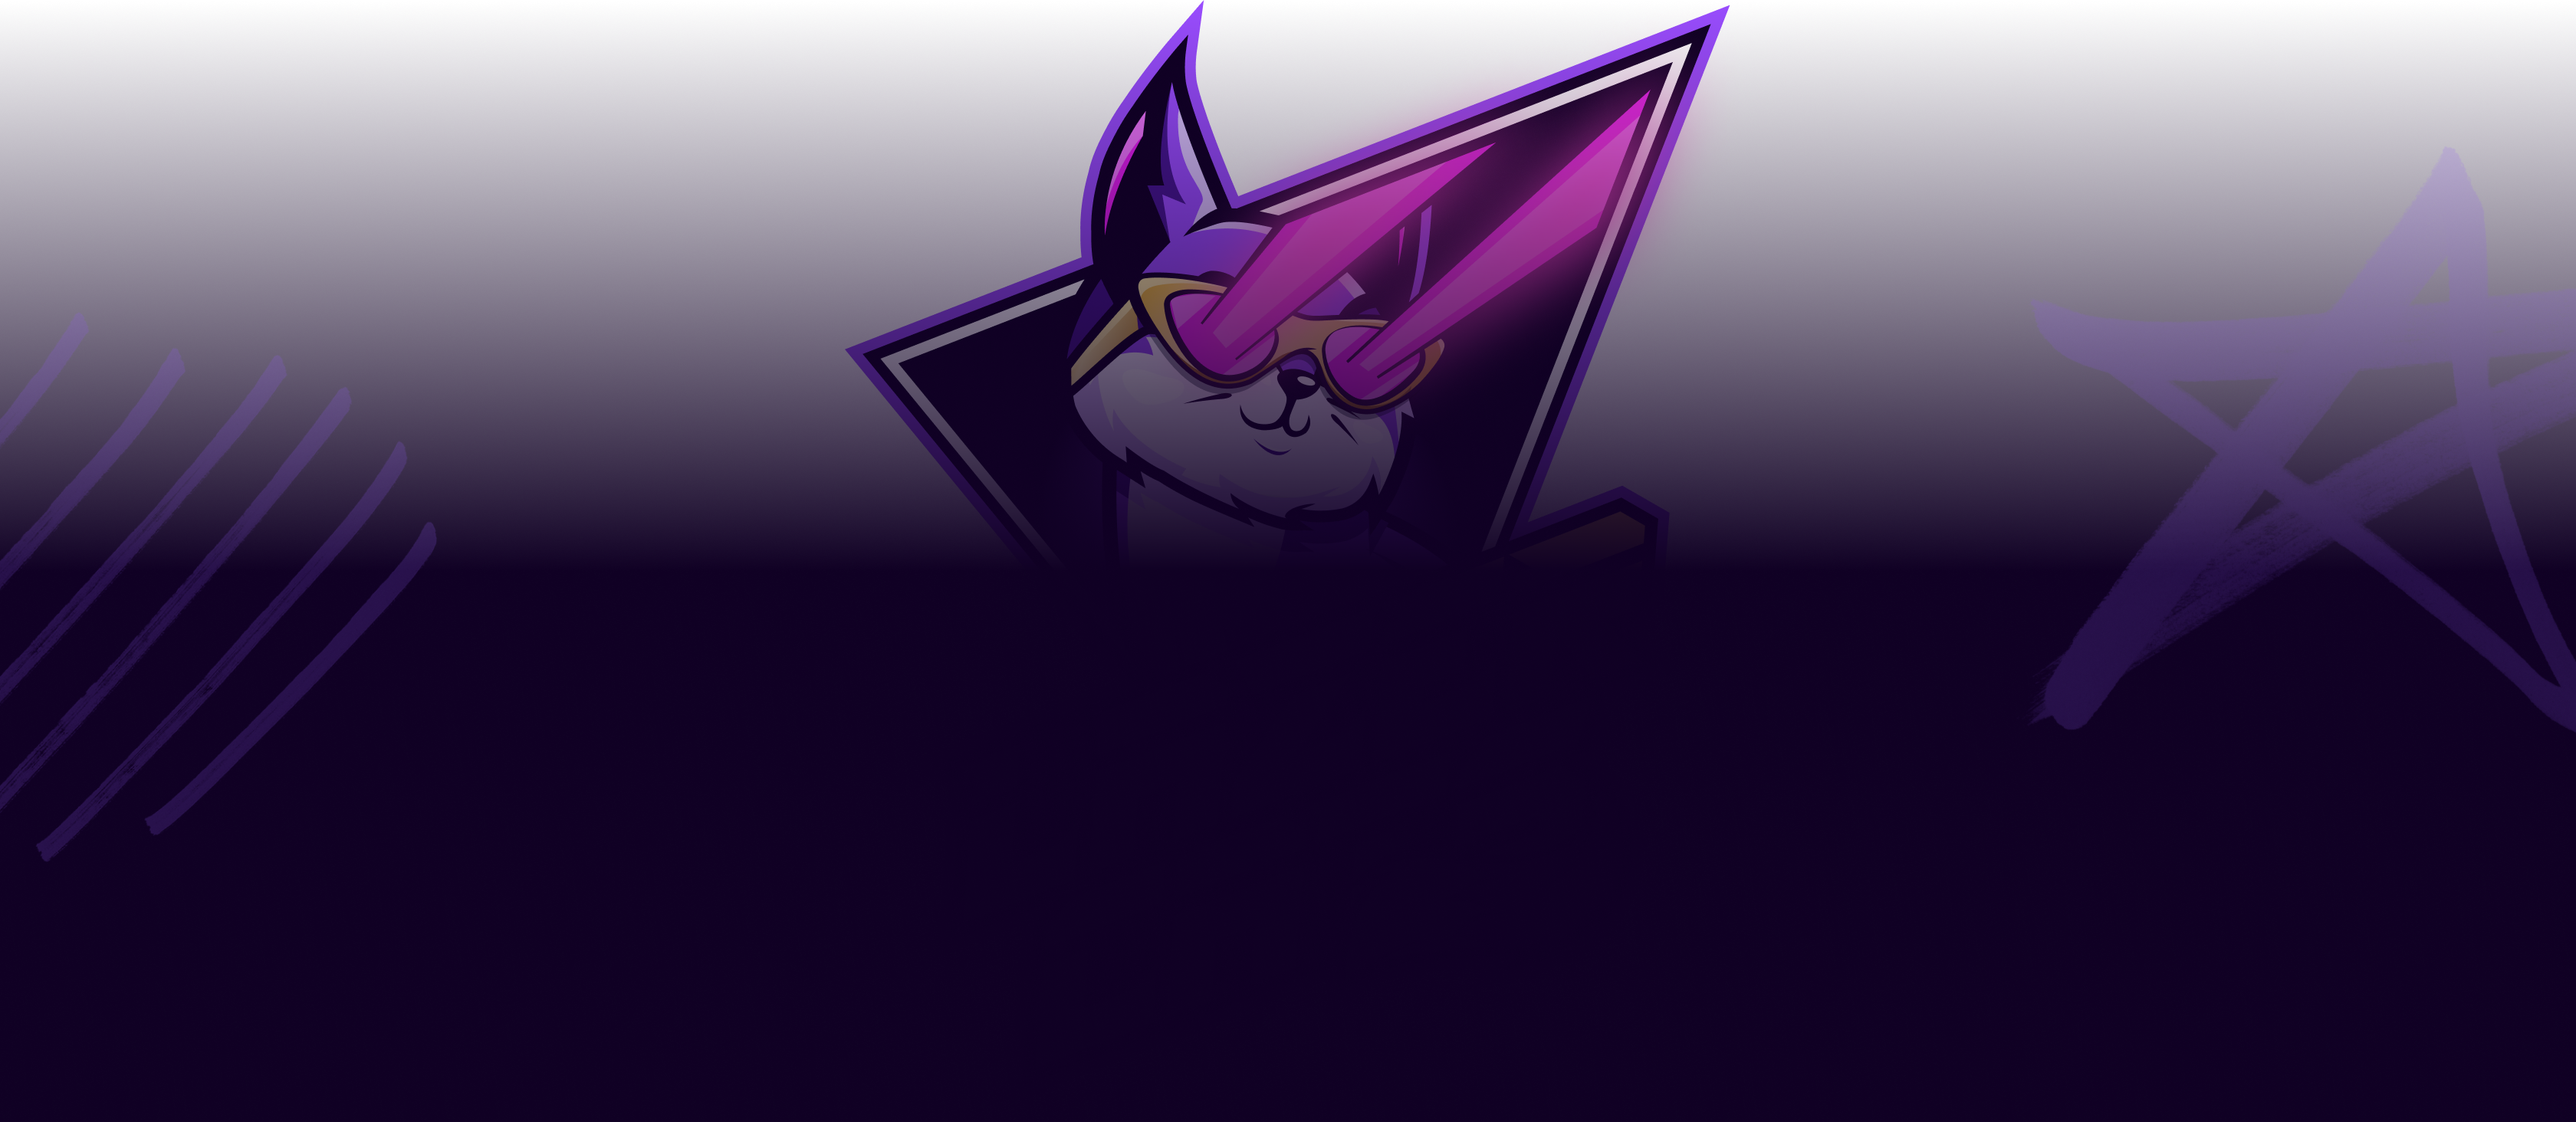
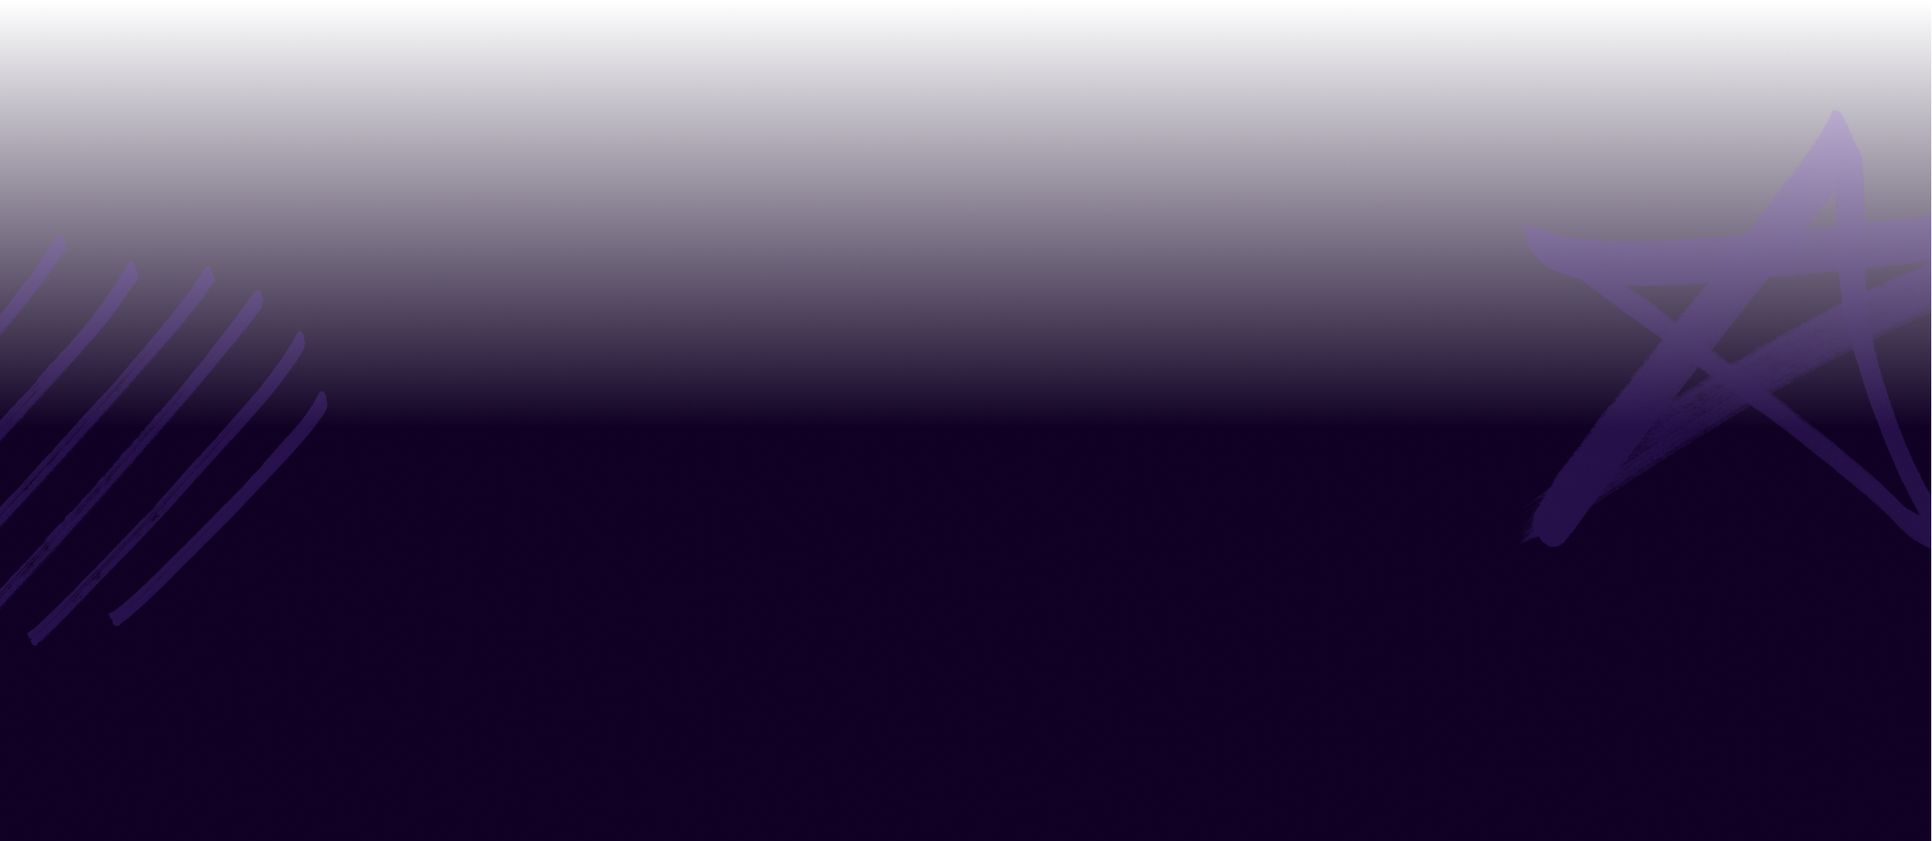
fixes test

Changed region(s): [[0.3094, 0.0, 0.6807, 0.4645]]

diff --git a/.slicemachine/assets/slices/WeAre/index.stories.js b/.slicemachine/assets/slices/WeAre/index.stories.js
@@ -5,5 +5,5 @@ export default {
 }
 
 
-export const _Default = () => <MyComponent slice={{"variation":"default","version":"sktwi1xtmkfgx8626","items":[{}],"primary":{"title":[{"type":"paragraph","text":"Cillum et cupidatat incididunt. Non ex ea non labore magna est velit et ex Lorem.","spans":[]}],"description":[{"type":"paragraph","text":"Exercitation aliqua tempor consequat. Amet exercitation commodo exercitation nisi.","spans":[]}],"background_image":{"dimensions":{"width":4024,"height":4024},"alt":null,"copyright":null,"url":"https://images.unsplash.com/photo-1607582278043-57198ac8da43"}},"id":"_Default","slice_type":"we_are"}} />
+export const _Default = () => <MyComponent slice={{"variation":"default","version":"sktwi1xtmkfgx8626","items":[{}],"primary":{"title":[{"type":"paragraph","text":"Cillum et cupidatat incididunt. Non ex ea non labore magna est velit et ex Lorem.","spans":[]}],"description":[{"type":"paragraph","text":"Exercitation aliqua tempor consequat. Amet exercitation commodo exercitation nisi.","spans":[]}],"background_image":{"dimensions":{"width":4024,"height":4024},"alt":null,"copyright":null,"url":"https://images.unsplash.com/photo-1607582278043-57198ac8da43"},"logo":{"dimensions":{"width":3810,"height":5715},"alt":null,"copyright":null,"url":"https://images.unsplash.com/photo-1587614295999-6c1c13675117"},"smoke":{"dimensions":{"width":3199,"height":3199},"alt":null,"copyright":null,"url":"https://images.unsplash.com/photo-1600804931749-2da4ce26c869"},"smoke2":{"dimensions":{"width":5000,"height":4613},"alt":null,"copyright":null,"url":"https://images.unsplash.com/photo-1596195689404-24d8a8d1c6ea"}},"id":"_Default","slice_type":"we_are"}} />
 _Default.storyName = ''

diff --git a/styles/modules/weare.module.scss b/styles/modules/weare.module.scss
@@ -4,10 +4,13 @@
   position: relative;
   width: 100%;
   color: white;
+  overflow: hidden;
 }
 
 .caption {
   text-align: center;
+  position: relative;
+  z-index: 1;
   @media (max-width: $xl) {
     text-align: left;
     margin-bottom: 20px;
@@ -21,6 +24,8 @@
   letter-spacing: 0.02em;
   max-width: 1050px;
   font-family: 'Helvetica';
+  position: relative;
+  z-index: 1;
 }
 
 .content {
@@ -30,7 +35,7 @@
   margin-left: auto;
   margin-right: auto;
   position: relative;
-  z-index: 1;
+  z-index: 2;
   @media (max-width: $xl) {
     padding-top: 170px;
     padding-bottom: 120px;
@@ -71,5 +76,63 @@
   @media (max-width: 455px) {
     width: 950px;
     transform: translateX(-30%);
+  }
+}
+
+.smoke {
+  position: absolute;
+  left: 0;
+  right: 0;
+  top: 0;
+  bottom: 0;
+  overflow: hidden;
+  //z-index: 3;
+  z-index: 0;
+
+  img {
+    object-fit: cover;
+  }
+}
+.smoke2 {
+  position: absolute;
+  left: 0;
+  right: 0;
+  top: 0;
+  bottom: 0;
+  overflow: hidden;
+  //z-index: 1;
+  z-index: 0;
+
+  img {
+    object-fit: cover;
+  }
+}
+
+.logo {
+  height: 400px;
+  position: absolute;
+  overflow: hidden;
+  top: 0;
+  left: 0;
+  right: 0;
+  margin-left: auto;
+  margin-right: auto;
+  z-index: 1;
+  text-align: center;
+  img {
+    width: 800px;
+    height: 744px;
+  }
+}
+.video {
+  top: 0;
+  left: 0;
+  right: 0;
+  position: absolute;
+  z-index: 1;
+  video {
+    width: 100%;
+    height: 100%;
+    object-fit: cover;
   }
 }

diff --git a/slices/WeAre/index.js b/slices/WeAre/index.js
@@ -11,7 +11,7 @@ import cn from 'classnames';
  */
 const WeAre = ({ slice }) => (
   <section className={style.section}>
-    <Container>
+    <Container style={{ zIndex: 2 }}>
       <div className={style.content}>
         <div className={cn(style.caption, 'multicolor-title fz-160')}>
           <PrismicRichText field={slice.primary.title} />
@@ -28,6 +28,20 @@ const WeAre = ({ slice }) => (
         loading="lazy"
         alt="bg"
       />
+    </div>
+    <div className={style.video}>
+      <video autoPlay muted loop>
+        <source src="https://lzrcats.com/img/SMOKE.webm" />
+      </video>
+    </div>
+    <div className={style.logo}>
+      <PrismicNextImage field={slice.primary.logo} loading="lazy" alt="logo" />
+    </div>
+    <div className={cn(style.smoke2, 'd-flex align-items-center')}>
+      <PrismicNextImage field={slice.primary.smoke2} fill={true} loading="lazy" alt="bg" />
+    </div>
+    <div className={cn(style.smoke, 'd-flex align-items-center')}>
+      <PrismicNextImage field={slice.primary.smoke} fill={true} loading="lazy" alt="bg" />
     </div>
   </section>
 );

diff --git a/.slicemachine/prismicio.d.ts b/.slicemachine/prismicio.d.ts
@@ -1960,6 +1960,36 @@ interface WeAreSliceDefaultPrimary {
      *
      */
     background_image: prismicT.ImageField<never>;
+    /**
+     * logo field in *WeAre → Primary*
+     *
+     * - **Field Type**: Image
+     * - **Placeholder**: *None*
+     * - **API ID Path**: we_are.primary.logo
+     * - **Documentation**: https://prismic.io/docs/core-concepts/image
+     *
+     */
+    logo: prismicT.ImageField<never>;
+    /**
+     * smoke field in *WeAre → Primary*
+     *
+     * - **Field Type**: Image
+     * - **Placeholder**: *None*
+     * - **API ID Path**: we_are.primary.smoke
+     * - **Documentation**: https://prismic.io/docs/core-concepts/image
+     *
+     */
+    smoke: prismicT.ImageField<never>;
+    /**
+     * smoke2 field in *WeAre → Primary*
+     *
+     * - **Field Type**: Image
+     * - **Placeholder**: *None*
+     * - **API ID Path**: we_are.primary.smoke2
+     * - **Documentation**: https://prismic.io/docs/core-concepts/image
+     *
+     */
+    smoke2: prismicT.ImageField<never>;
 }
 /**
  * Default variation for WeAre Slice
